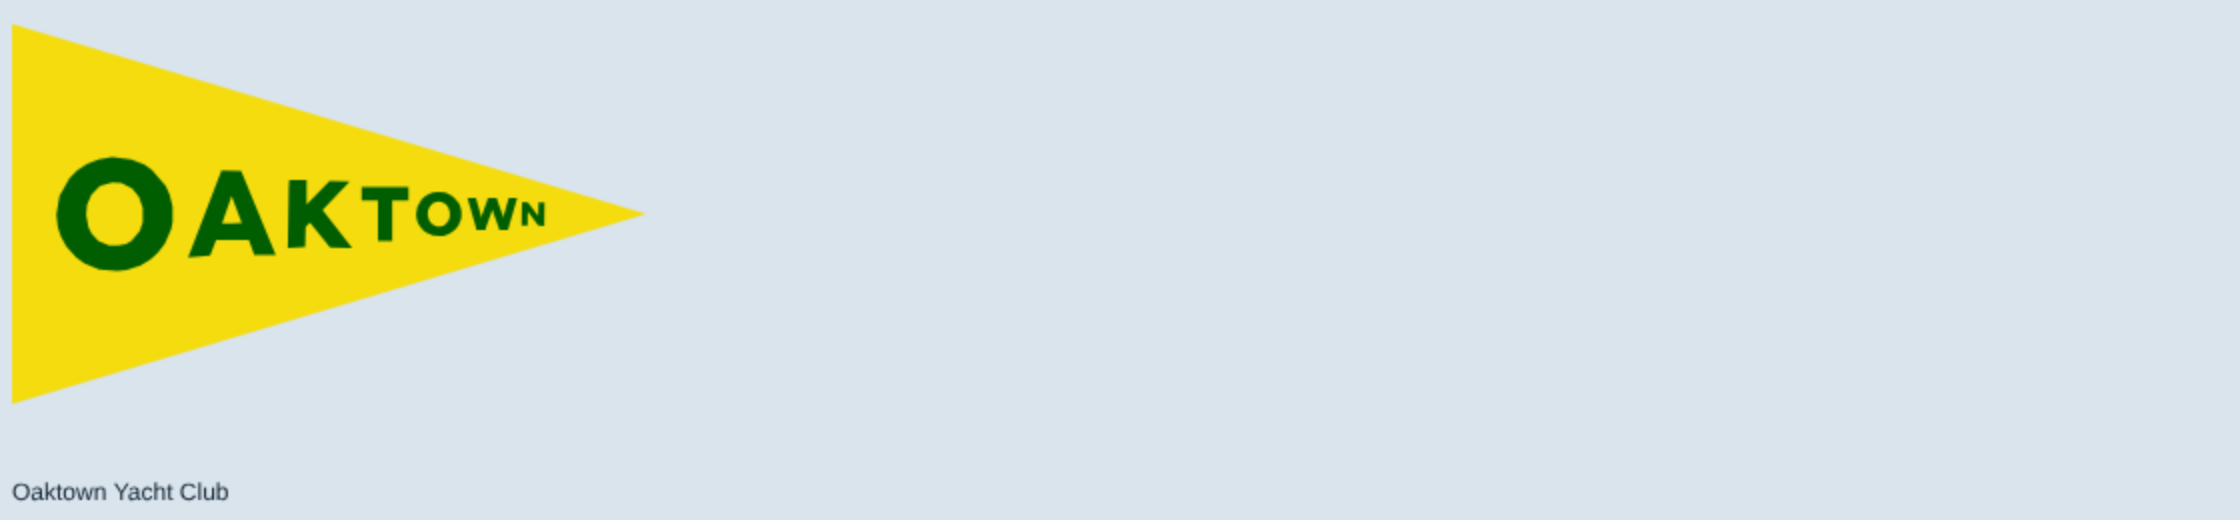
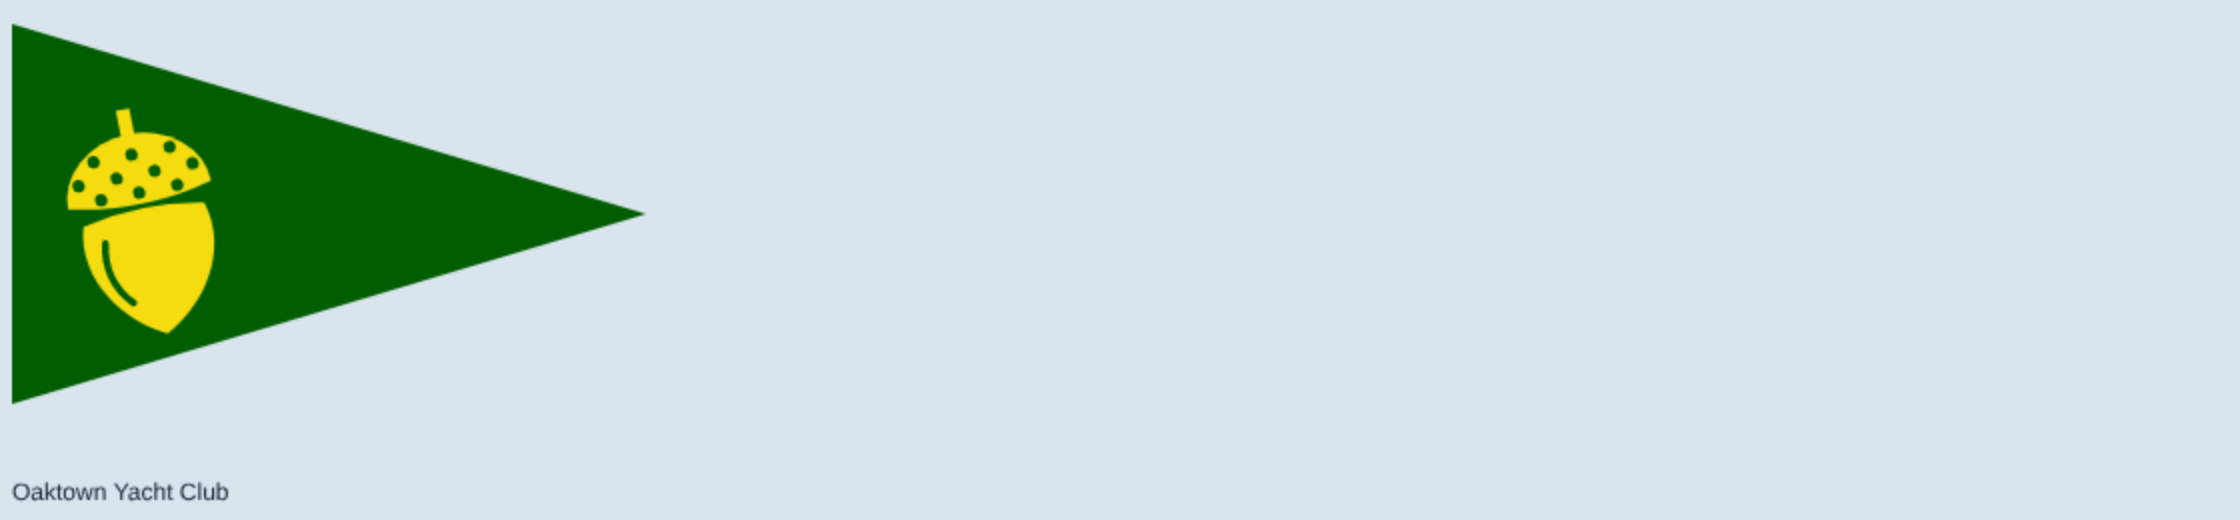
Burgees: Oaktown is the Oakland green with one yellow acorn, no lettering
Claude-Session: https://claude.ai/code/session_012Uu5QjYRsEpBxuz7xgHWhs

Changed region(s): [[0.0, 0.0308, 0.3125, 0.7692]]

diff --git a/src/render/burgeeArt.ts b/src/render/burgeeArt.ts
@@ -36,32 +36,15 @@ function oakLeaf(g: G, x: number, y: number, len: number, ang: number, c: string
   g.beginPath(); OAK_LEAF.forEach(([a, b], i) => i ? g.lineTo(a * len, b * len) : g.moveTo(a * len, b * len)); g.closePath(); g.fill(); g.stroke(); g.restore();
 }
 
-/**
- * The letters of the City of Oakland's flag, traced from the owner's picture of it: O, A, K, L, N and D, each straightened
- * from its arc and outlined (counters included), in units of the cap height (x from the letter's left, y down). The T and W
- * that word needs are not in that picture, so they are built in the same style from its measured strokes: a stem 0.26 wide, a
- * bar 0.25 thick, the diagonals 0.26 across.
- */
-const OAKLAND_GLYPHS: Record<string, { w: number; outer: P[]; holes: P[][] }> = {"O":{"w":1.048,"outer":[[0.503,-0.014],[0.676,0.007],[0.793,0.055],[0.862,0.103],[0.986,0.248],[1.021,0.324],[1.048,0.434],[1.048,0.572],[1.034,0.641],[0.979,0.766],[0.917,0.848],[0.848,0.91],[0.759,0.966],[0.634,1.007],[0.552,1.014],[0.386,1.0],[0.255,0.945],[0.179,0.89],[0.09,0.793],[0.041,0.703],[0.014,0.621],[0.0,0.51],[0.028,0.338],[0.117,0.179],[0.186,0.11],[0.276,0.048],[0.379,0.007]],"holes":[[[0.503,0.214],[0.586,0.221],[0.683,0.269],[0.745,0.345],[0.779,0.448],[0.779,0.572],[0.752,0.655],[0.676,0.745],[0.628,0.772],[0.559,0.786],[0.476,0.786],[0.379,0.745],[0.317,0.676],[0.29,0.621],[0.269,0.51],[0.276,0.421],[0.317,0.324],[0.393,0.248]]]},"A":{"w":1.014,"outer":[[0.386,-0.003],[0.614,0.003],[1.014,0.976],[0.766,0.976],[0.703,0.803],[0.607,0.803],[0.324,0.803],[0.255,0.983],[0.0,1.003]],"holes":[[[0.503,0.293],[0.621,0.603],[0.503,0.61],[0.393,0.61]]]},"K":{"w":0.945,"outer":[[0.041,-0.003],[0.276,0.003],[0.276,0.362],[0.614,0.017],[0.91,0.024],[0.51,0.438],[0.945,0.997],[0.903,1.003],[0.621,0.99],[0.324,0.624],[0.262,0.693],[0.255,0.983],[0.0,0.997],[0.014,0.1],[0.021,0.003]],"holes":[]},"L":{"w":0.662,"outer":[[0.014,0.003],[0.276,0.01],[0.262,0.755],[0.276,0.769],[0.662,0.776],[0.655,0.997],[0.0,0.99]],"holes":[]},"N":{"w":0.972,"outer":[[0.021,-0.003],[0.269,0.003],[0.69,0.562],[0.703,0.555],[0.717,0.01],[0.972,0.017],[0.959,1.003],[0.945,1.003],[0.703,0.99],[0.276,0.424],[0.262,0.431],[0.255,0.597],[0.255,0.983],[0.0,0.99],[0.007,0.224]],"holes":[]},"D":{"w":0.917,"outer":[[0.069,0.0],[0.352,0.014],[0.579,0.048],[0.641,0.069],[0.759,0.138],[0.862,0.262],[0.897,0.345],[0.917,0.469],[0.91,0.607],[0.883,0.71],[0.828,0.814],[0.766,0.883],[0.676,0.945],[0.607,0.972],[0.4,1.0],[0.0,0.986]],"holes":[[[0.317,0.234],[0.428,0.241],[0.545,0.283],[0.6,0.331],[0.634,0.4],[0.641,0.559],[0.621,0.641],[0.6,0.683],[0.552,0.731],[0.49,0.759],[0.379,0.779],[0.283,0.772]]]}};
-const STEM = 0.262, BAR = 0.25;
-const OAKLAND_BUILT: Record<string, { w: number; polys: P[][] }> = {
-  T: { w: 0.86, polys: [[[0, 0.5 - 0.5], [0.86, 0], [0.86, BAR], [0, BAR]], [[0.43 - STEM / 2, BAR - 0.01], [0.43 + STEM / 2, BAR - 0.01], [0.43 + STEM / 2, 1], [0.43 - STEM / 2, 1]]] },
-  W: (() => { const w = 1.55, s = STEM; const st = (xt: number, xb: number): P[] => [[xt - s / 2, 0], [xt + s / 2, 0], [xb + s / 2, 1], [xb - s / 2, 1]]; return { w, polys: [st(s / 2, w * 0.27), st(w * 0.5, w * 0.27), st(w * 0.5, w * 0.73), st(w - s / 2, w * 0.73)] }; })()
-};
-/** A word's letters along the pennant's middle line, each as tall as `k` of the flag's height where it stands (so they taper with the cloth); k is found so the word ends at `endX`. */
-function pennantWord(g: G, word: string, c: string, W: number, H: number, startX: number, endX: number): void {
-  const wOf = (ch: string) => OAKLAND_GLYPHS[ch]?.w ?? OAKLAND_BUILT[ch].w;
-  const layout = (k: number) => { let x = startX; const out: { ch: string; x: number; h: number }[] = [];
-    for (const ch of word) { let h = k * H * (1 - x / W); for (let i = 0; i < 3; i++) h = k * H * (1 - (x + wOf(ch) * h / 2) / W); out.push({ ch, x, h }); x += wOf(ch) * h + 0.14 * h; }
-    return { out, end: x - 0.14 * out[out.length - 1].h }; };
-  let lo = 0.05, hi = 0.6; for (let i = 0; i < 30; i++) { const m = (lo + hi) / 2; layout(m).end > endX ? hi = m : lo = m; }
-  g.fillStyle = c;
-  for (const { ch, x, h } of layout(Math.min(lo, 0.5)).out) {
-    g.save(); g.translate(x, H / 2 - h / 2); g.scale(h, h);
-    const gl = OAKLAND_GLYPHS[ch];
-    if (gl) { g.beginPath(); for (const ring of [gl.outer, ...gl.holes]) { ring.forEach(([a, b], i) => i ? g.lineTo(a, b) : g.moveTo(a, b)); g.closePath(); } g.fill('evenodd'); }
-    else for (const poly of OAKLAND_BUILT[ch].polys) { g.beginPath(); poly.forEach(([a, b], i) => i ? g.lineTo(a, b) : g.moveTo(a, b)); g.closePath(); g.fill(); }
-    g.restore(); }
+/** An acorn, in one color on the field's: a stem, a domed cap of scales, a gap, a round nut with a highlight. (x, y) is its middle, `len` its height, `ang` its lean. */
+function acorn(g: G, x: number, y: number, len: number, ang: number, c: string, field: string): void {
+  g.save(); g.translate(x, y); g.rotate(ang); g.scale(len, len); g.fillStyle = c;
+  g.fillRect(-0.03, -0.5, 0.06, 0.14); // the stem
+  g.beginPath(); g.moveTo(-0.32, -0.12); g.ellipse(0, -0.12, 0.32, 0.27, 0, Math.PI, 2 * Math.PI); g.quadraticCurveTo(0, -0.04, -0.32, -0.12); g.closePath(); g.fill(); // the cap
+  g.fillStyle = field; for (const [row, n] of [[-0.3, 3], [-0.21, 4], [-0.13, 3]] as [number, number][]) for (let i = 0; i < n; i++) { g.beginPath(); g.arc((i - (n - 1) / 2) * 0.17, row, 0.027, 0, 7); g.fill(); } // its scales
+  g.fillStyle = c; g.beginPath(); g.moveTo(-0.27, -0.03); g.bezierCurveTo(-0.34, 0.2, -0.17, 0.42, 0, 0.5); g.bezierCurveTo(0.17, 0.42, 0.34, 0.2, 0.27, -0.03); g.quadraticCurveTo(0, -0.09, -0.27, -0.03); g.closePath(); g.fill(); // the nut
+  g.strokeStyle = field; g.lineWidth = 0.03; g.lineCap = 'round'; g.beginPath(); g.moveTo(-0.19, 0.06); g.quadraticCurveTo(-0.23, 0.22, -0.12, 0.34); g.stroke(); // its highlight
+  g.restore();
 }
 
 export const PARODY_BURGEES: Burgee[] = [
@@ -130,8 +113,8 @@ export const PARODY_BURGEES: Burgee[] = [
       for (let k = 0; W * (0.4 + (2 * k + 1) * 0.0625) < W; k++) rect(g, RED, W * (0.4 + (2 * k + 1) * 0.0625), 0, W * 0.0625, H); // the stripes, red and white
       oakLeaf(g, X0, H * 0.515, H * 0.58, 0.3, WHITE); // one white oak leaf, leaning a little toward the fly, well inside the panel
       border(g, W, H, 'pennant', BORDER, 0.045); rect(g, WHITE, 0, 0, W * 0.04, H); } },
-  { id: 'oyc', shape: 'pennant', ratio: 1.667, // Oaktown YC, after the City of Oakland's flag (the owner's): its exact yellow, its exact green, the word OAKTOWN down the middle in its lettering, tapering with the cloth
-    draw: (g, W, H) => { fill(g, W, H, '#f5dc0e'); pennantWord(g, 'OAKTOWN', '#005e00', W, H, W * 0.07, W * 0.84); } },
+  { id: 'oyc', shape: 'pennant', ratio: 1.667, // Oaktown YC, after the City of Oakland's flag (the owner's): its green for the field, its yellow for one acorn
+    draw: (g, W, H) => { fill(g, W, H, '#005e00'); acorn(g, W * 0.21, H * 0.52, H * 0.6, -0.2, '#f5dc0e', '#005e00'); } },
   { id: 'iyc', shape: 'pennant', ratio: 2, // modern, thrifty: sand, white and teal stripes
     draw: (g, W, H) => { rect(g, '#e6cf99', 0, 0, W, H / 3); rect(g, WHITE, 0, H / 3, W, H / 3); rect(g, '#16a0a6', 0, H * 2 / 3, W, H / 3); oval(g, '#e6cf99', W * 0.16, H / 2, W * 0.1, H * 0.08); } },
   { id: 'aeyc', shape: 'pennant', ratio: 1.6, // mid-century: sky blue and white, one wind swirl
